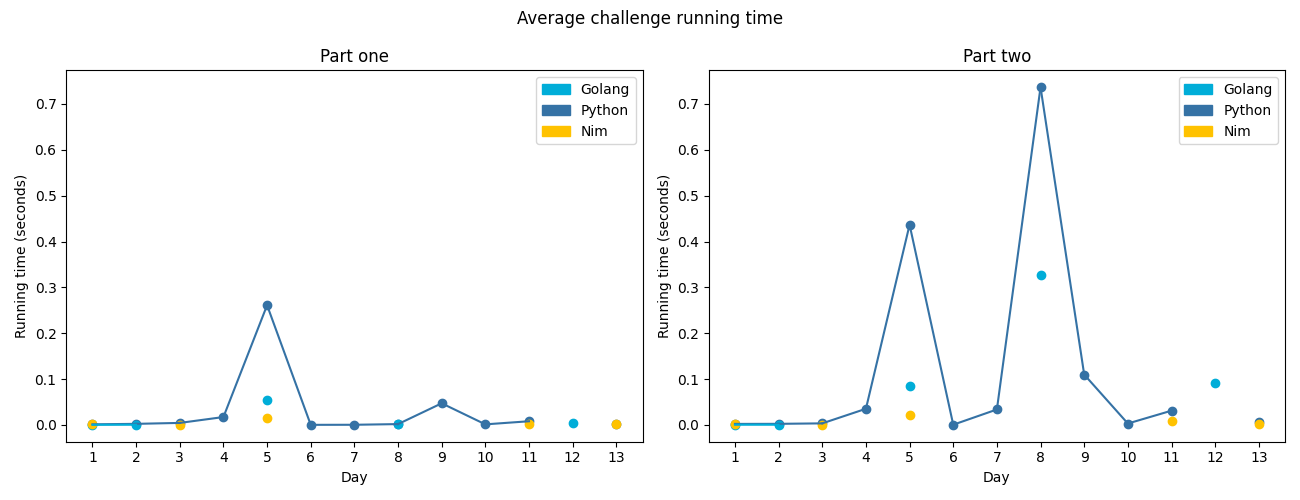
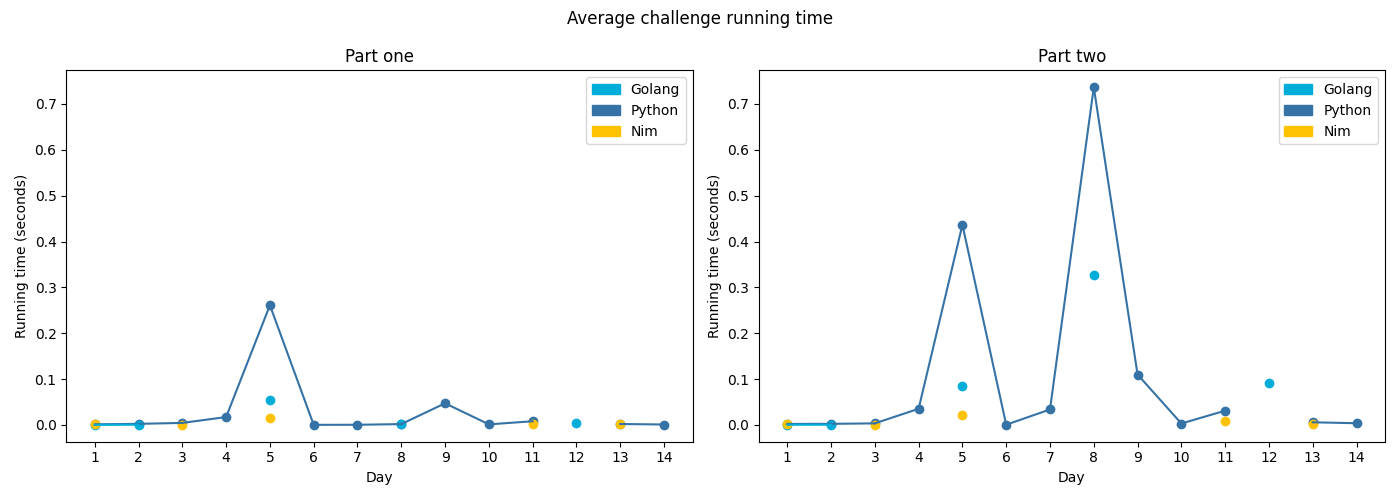
Add 2021-14 in Python

diff --git a/challenges/2021/14-extendedPolymerization/py/__init__.py b/challenges/2021/14-extendedPolymerization/py/__init__.py
@@ -1,0 +1,71 @@
+import math
+from typing import Tuple, List, Dict
+from aocpy import BaseChallenge
+
+Rule = Tuple[str, str]
+Pairs = Dict[str, int]
+
+
+def parse(instr: str) -> Tuple[str, List[Rule]]:
+    seq, rawRules = instr.strip().split("\n\n")
+    return seq, [tuple(x.split(" -> ")) for x in rawRules.splitlines()]
+
+
+def make_pair_dict(seq: str) -> Pairs:
+    o = {}
+    for i in range(len(seq) - 1):
+        s = seq[i] + seq[i + 1]
+        o[s] = o.get(s, 0) + 1
+    return o
+
+
+def apply_rules(pairs: Pairs, rules: List[Rule]) -> Pairs:
+    deltas = {}
+
+    for rule in rules:
+        rule_part_a = rule[0][0] + rule[1]
+        rule_part_b = rule[1] + rule[0][1]
+
+        if rule[0] in pairs:
+            count = pairs[rule[0]]
+            deltas[rule[0]] = deltas.get(rule[0], 0) - count
+            deltas[rule_part_a] = deltas.get(rule_part_a, 0) + count
+            deltas[rule_part_b] = deltas.get(rule_part_b, 0) + count
+
+    for key in deltas:
+        new = pairs.get(key, 0) + deltas[key]
+        pairs[key] = 0 if new < 0 else new
+
+    return pairs
+
+
+def count_letters(pairs: Pairs) -> Dict[str, int]:
+    o = {}
+    for pair in pairs:
+        n = pairs[pair]
+        o[pair[0]] = o.get(pair[0], 0) + n
+        o[pair[1]] = o.get(pair[1], 0) + n
+
+    for key in o:
+        o[key] = math.ceil(o[key] / 2)
+
+    return o
+
+
+class Challenge(BaseChallenge):
+    @staticmethod
+    def core(instr: str, n: int) -> int:
+        sequence, rules = parse(instr)
+        sequence_pairs = make_pair_dict(sequence)
+        for _ in range(n):
+            sequence_pairs = apply_rules(sequence_pairs, rules)
+        vals = count_letters(sequence_pairs).values()
+        return max(vals) - min(vals)
+
+    @staticmethod
+    def one(instr: str) -> int:
+        return Challenge.core(instr, 10)
+
+    @staticmethod
+    def two(instr: str) -> int:
+        return Challenge.core(instr, 40)

diff --git a/challenges/2021/README.md b/challenges/2021/README.md
@@ -25,6 +25,7 @@ Solutions to the [2021 Advent of Code](https://adventofcode.com/2021).
 | 11 - Dumbo Octopus                  | ★ ★                | [Python](11-dumboOctopus/py), [Nim](11-dumboOctopus/nim)                                                | Cellular automata my beloved <3                                                                                                     |
 | 12 - Passage Pathing                | ★ ★                | [Go](12-passagePathing/go)                                                                              | I couldn't tell you how it works, but it does kinda work and I think I have a vague idea (external help was used).                  |
 | 13 - Transparent Origami            | ★ ★                | [Python](13-transparentOrigami/py), [Nim](13-transparentOrigami/nim)                                    | I got stuck for hours on an intermittent off-by-one error. :(                                                                       |
+| 14 - Extended Polymerization        | ★ ★                | [Python](14-extendedPolymerization/py)                                                                  | Another off-by-one error, but this time it was because of dodgy division. Wonderful.                                                |
 
 <!-- PARSE END -->
 

diff --git a/challenges/2021/14-extendedPolymerization/README.md b/challenges/2021/14-extendedPolymerization/README.md
@@ -1,0 +1,2 @@
+# [Day 14: Extended Polymerization](https://adventofcode.com/2021/day/14)
+
